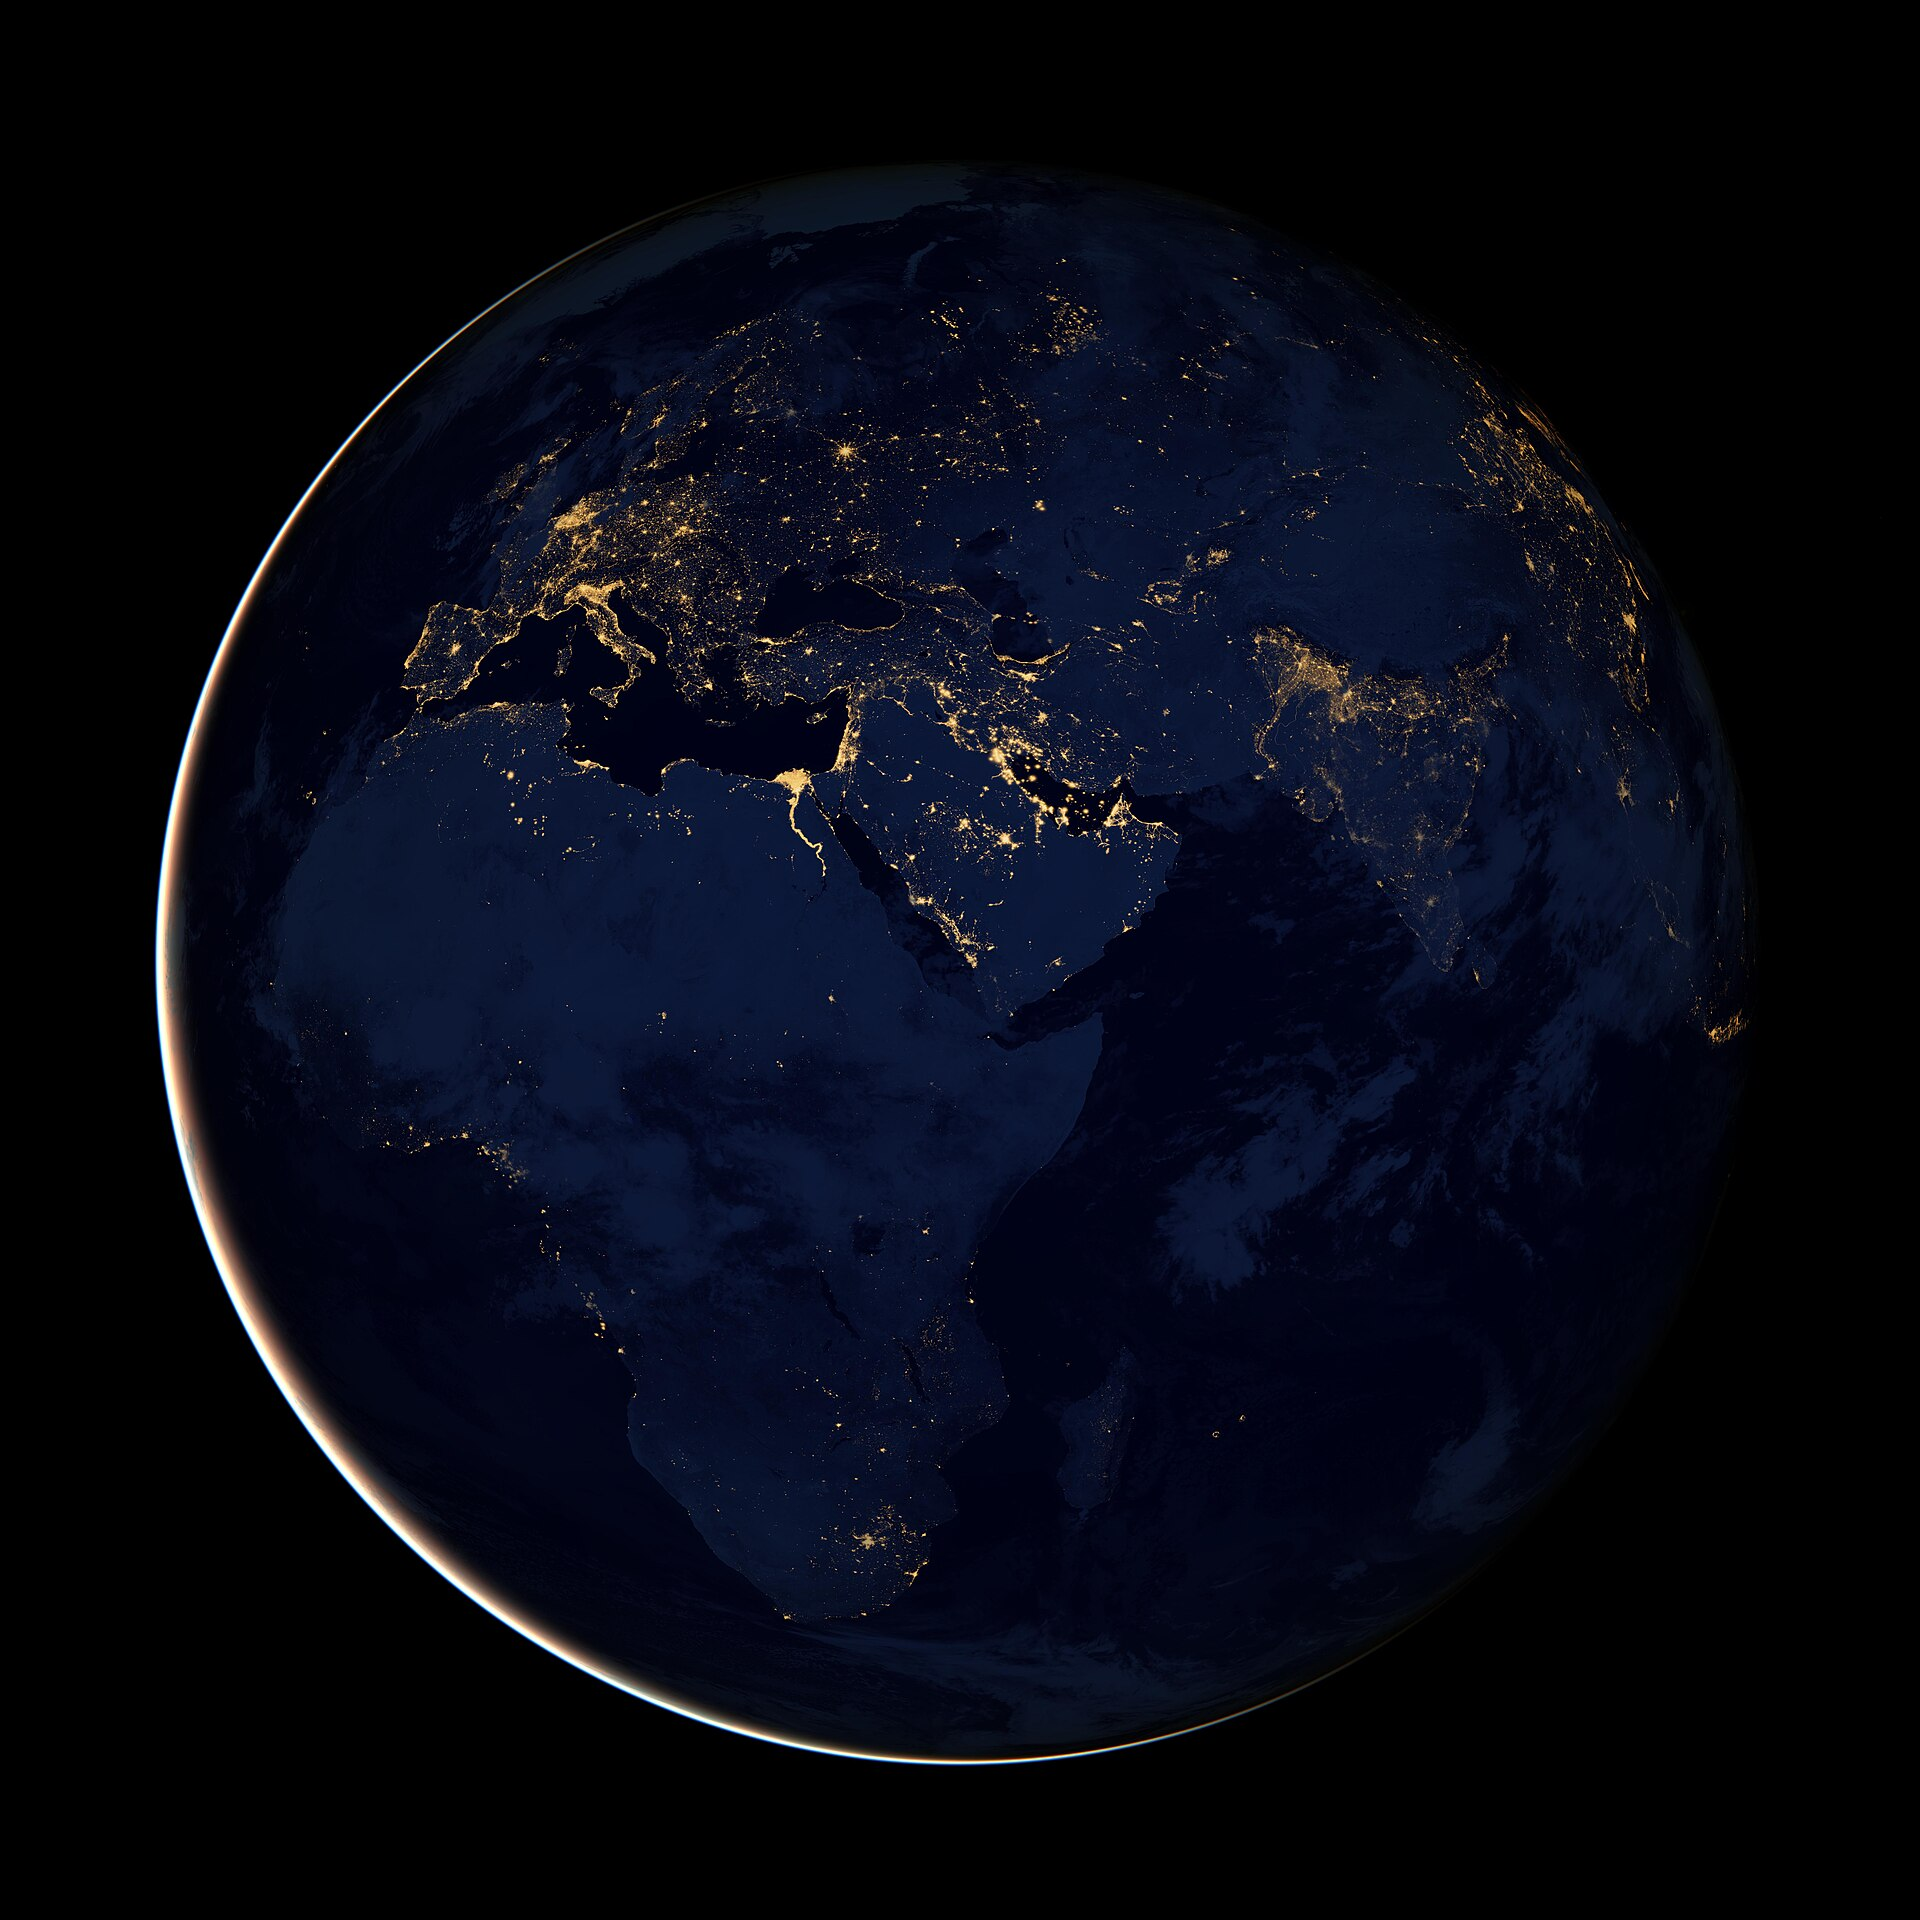
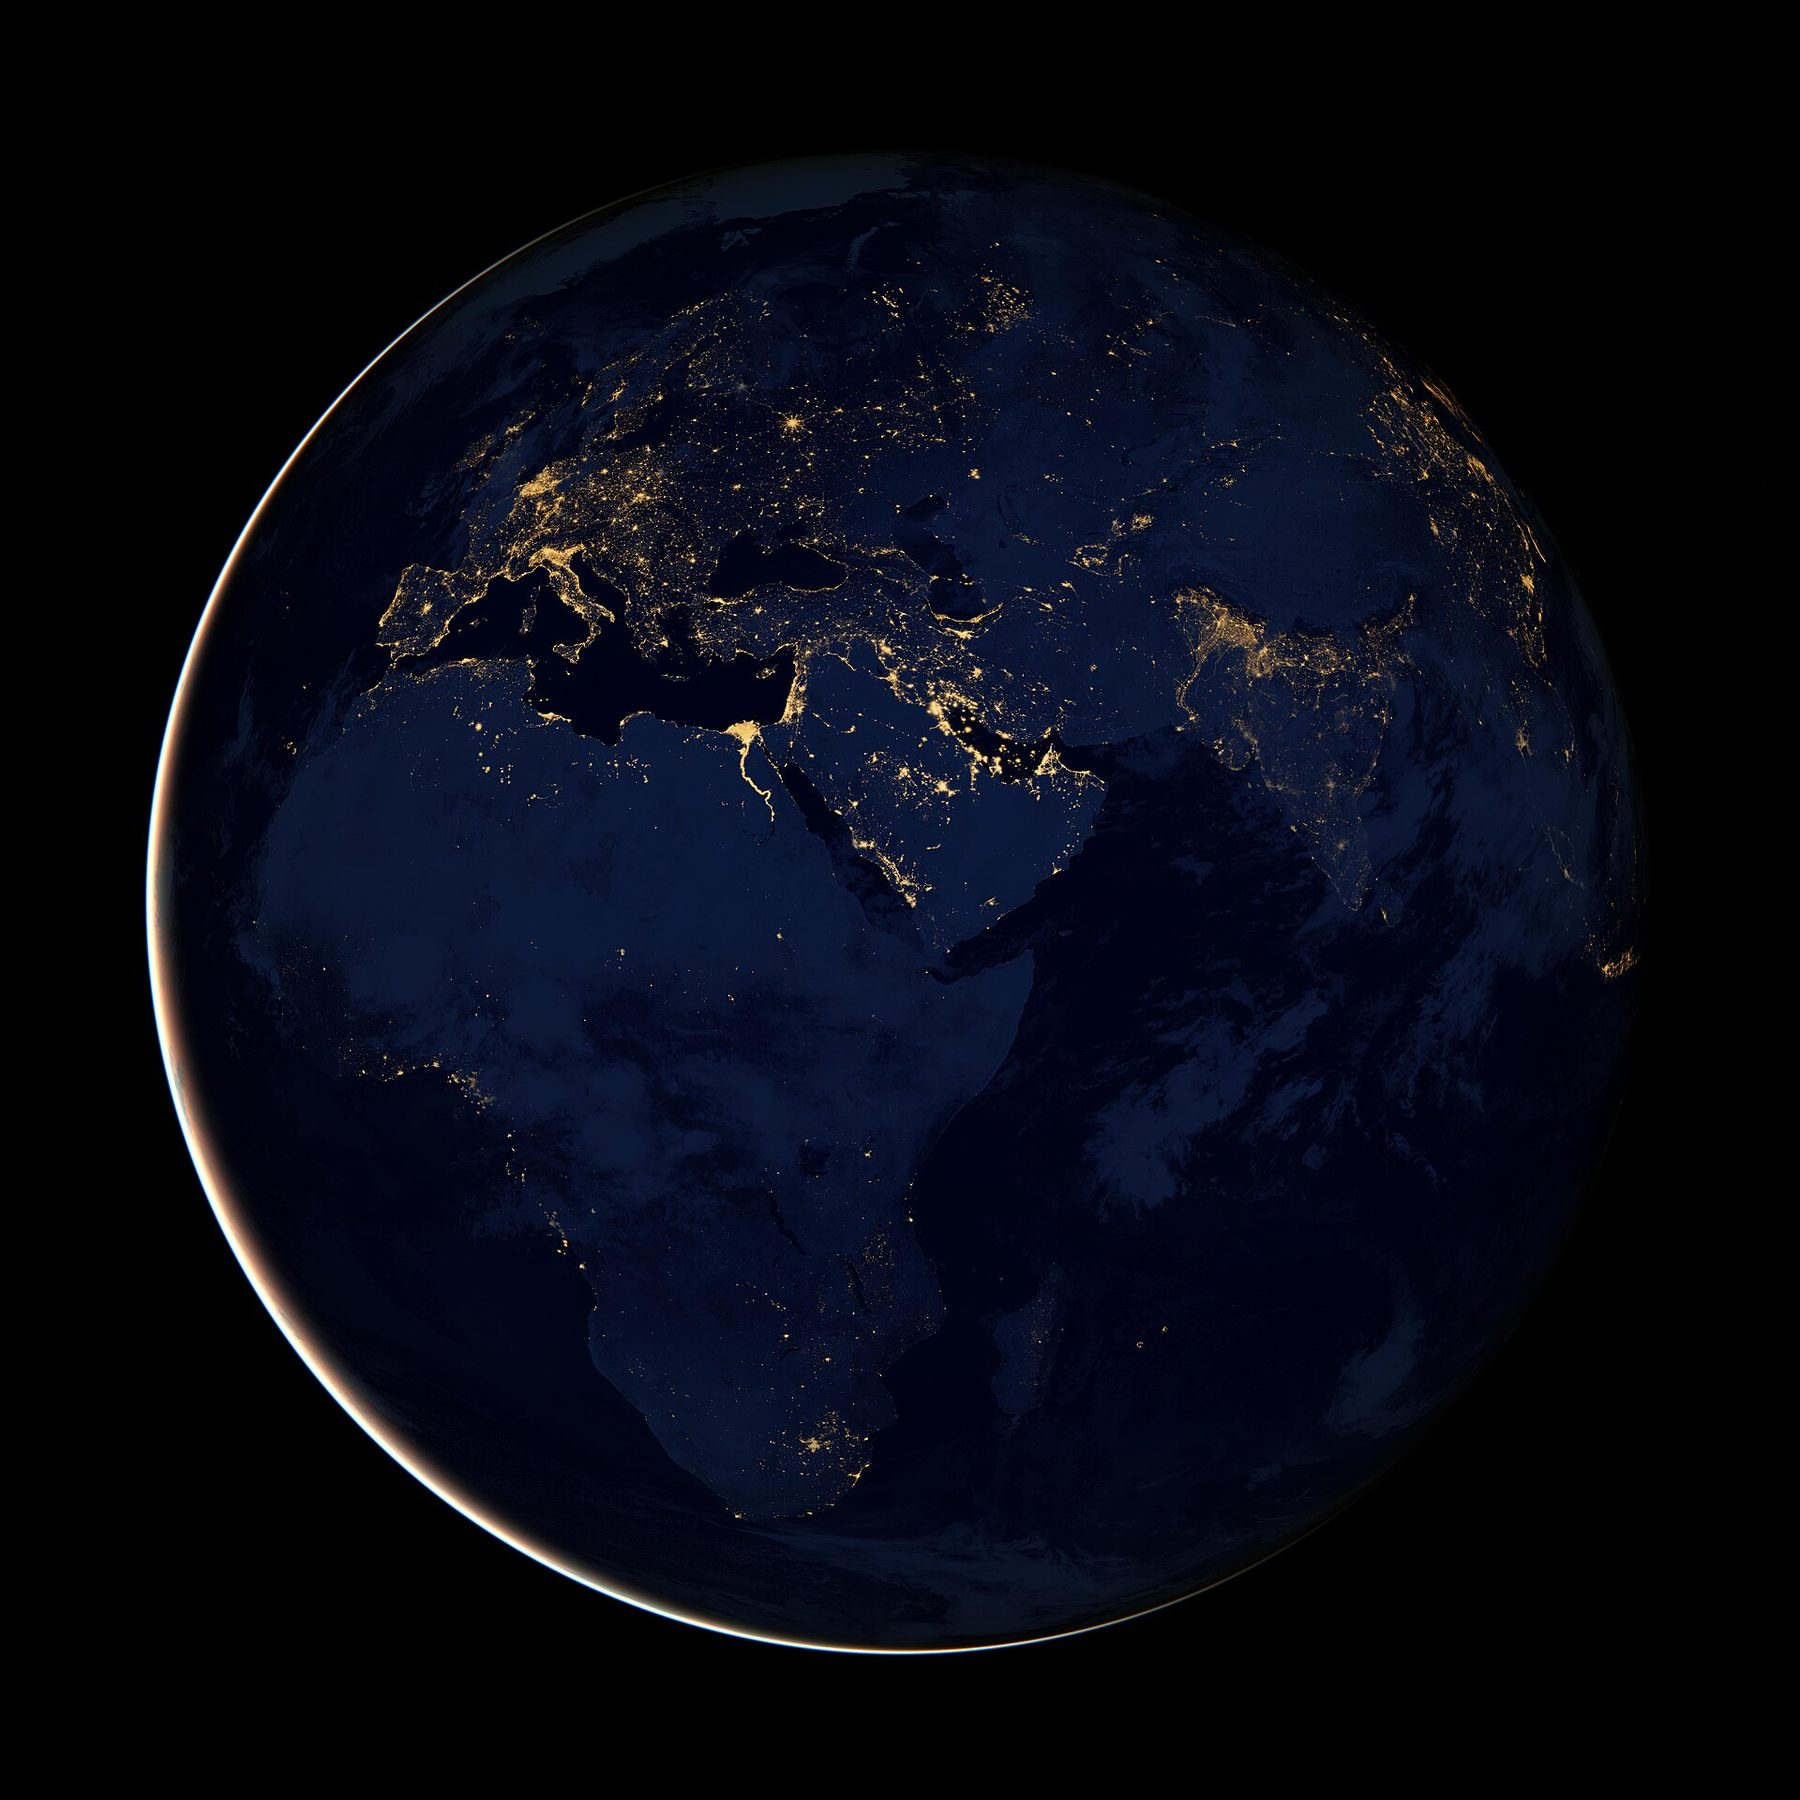
Pitch polish: sharper value prop, contact form, 404, subpage OG, lighter showcase
- Hero + contact copy: lead with the concrete 'what' (compare imagery over time,
  grade confidence); drop the explicit 'defense and commercial' line for the
  subtle both-audiences framing.
- Contact: real form wired to FormSubmit -> info@scryeinsights.com (AJAX with a
  no-JS native fallback), honeypot spam trap; replaces the plain mailto.
- Add branded 404.html.
- Add social share preview (OG image + tags) to the sub-pages.
- Recompress showcase.jpg (355KB -> 236KB); strip its metadata.

diff --git a/index.html b/index.html
@@ -69,8 +69,8 @@
         <p class="eyebrow"><span class="eyebrow__dot"></span>Geospatial change detection · decision intelligence</p>
         <h1 class="hero__title">Reveal What's Hidden.</h1>
         <p class="hero__lead">
-          Scrye turns imagery and elevation into decisions you can trust —
-          for the teams who have to act on what's changing on the ground,
+          Scrye compares imagery over time to show exactly what changed —
+          and how far to trust it — turning raw imagery into decisions,
           online or fully offline.
         </p>
         <div class="hero__actions">
@@ -350,15 +350,37 @@
           <p class="eyebrow"><span class="eyebrow__idx">06</span>Contact</p>
           <h2 class="section__title">Briefings by request.</h2>
           <p class="contact__lead">
-            We work with a select group of partners — across defense and commercial alike —
-            who need to turn imagery into decisions they can stand behind.
+            We work with a select group of partners who need to turn imagery
+            into decisions they can stand behind. Tell us a little about you.
           </p>
         </div>
 
         <div class="contact__panel">
-          <p class="contact__soon"><span class="pulse"></span>Get in touch</p>
-          <p class="contact__soonsub">For briefings and inquiries, reach us directly.</p>
-          <p class="contact__direct"><a href="mailto:info@scryeinsights.com">info@scryeinsights.com</a></p>
+          <form id="contactForm" class="contact__form" action="https://formsubmit.co/info@scryeinsights.com" method="POST">
+            <input type="hidden" name="_subject" value="New inquiry from scryeinsights.com" />
+            <input type="hidden" name="_captcha" value="false" />
+            <input type="hidden" name="_template" value="table" />
+            <input type="hidden" name="_next" value="https://scryeinsights.com/" />
+            <input type="text" name="_honey" tabindex="-1" autocomplete="off" aria-hidden="true" style="position:absolute;left:-9999px" />
+            <div class="field">
+              <label for="cf-name">Name</label>
+              <input id="cf-name" name="name" type="text" required autocomplete="name" />
+            </div>
+            <div class="field">
+              <label for="cf-org">Organization</label>
+              <input id="cf-org" name="organization" type="text" autocomplete="organization" />
+            </div>
+            <div class="field">
+              <label for="cf-email">Email</label>
+              <input id="cf-email" name="email" type="email" required autocomplete="email" />
+            </div>
+            <div class="field">
+              <label for="cf-message">How can we help?</label>
+              <textarea id="cf-message" name="message" rows="4"></textarea>
+            </div>
+            <button class="btn btn--primary btn--block" type="submit">Request a briefing</button>
+            <p class="form-note" id="formNote" role="status" aria-live="polite"></p>
+          </form>
         </div>
       </div>
     </section>

diff --git a/main.js b/main.js
@@ -55,42 +55,51 @@
   if (yearEl) yearEl.textContent = String(new Date().getFullYear());
 
   /* ---- contact form ----
-     No backend by design. On submit we compose a mailto: so the message
-     opens in the visitor's mail client. To wire a real endpoint instead
-     (Formspree, your API, etc.), replace the body of handleSubmit().     */
-  var CONTACT_EMAIL = "contact@scrye.example"; // <- replace with real inbox
+     Posts to FormSubmit. With JS on, we submit via fetch and stay on the page;
+     with JS off, the form's native action still delivers. */
   var form = document.getElementById("contactForm");
   var note = document.getElementById("formNote");
+  var val = function (sel) {
+    var el = form.querySelector(sel);
+    return el ? el.value.trim() : "";
+  };
 
-  function handleSubmit(e) {
-    e.preventDefault();
-    var name = form.name.value.trim();
-    var org = form.org.value.trim();
-    var email = form.email.value.trim();
-    var message = form.message.value.trim();
+  if (form) {
+    form.addEventListener("submit", function (e) {
+      var name = val('[name="name"]');
+      var email = val('[name="email"]');
+      if (!name || !email) {
+        e.preventDefault();
+        note.textContent = "Please add your name and email.";
+        note.classList.remove("is-ok");
+        return;
+      }
+      if (!window.fetch) return; // no fetch → let the native POST proceed
 
-    if (!name || !email) {
-      note.textContent = "Please add your name and email.";
+      e.preventDefault();
+      note.textContent = "Sending…";
       note.classList.remove("is-ok");
-      return;
-    }
-
-    var subject = "Briefing request — " + name + (org ? " (" + org + ")" : "");
-    var body =
-      "Name: " + name + "\n" +
-      "Organization: " + (org || "—") + "\n" +
-      "Email: " + email + "\n\n" +
-      (message || "(no message)");
-
-    window.location.href =
-      "mailto:" + CONTACT_EMAIL +
-      "?subject=" + encodeURIComponent(subject) +
-      "&body=" + encodeURIComponent(body);
-
-    note.textContent = "Opening your mail client…";
-    note.classList.add("is-ok");
-    form.reset();
+      fetch("https://formsubmit.co/ajax/info@scryeinsights.com", {
+        method: "POST",
+        headers: { "Content-Type": "application/json", "Accept": "application/json" },
+        body: JSON.stringify({
+          name: name,
+          organization: val('[name="organization"]'),
+          email: email,
+          message: val('[name="message"]'),
+          _subject: "New inquiry from scryeinsights.com"
+        })
+      })
+        .then(function (r) { return r.json(); })
+        .then(function () {
+          note.textContent = "Thanks — we'll be in touch.";
+          note.classList.add("is-ok");
+          form.reset();
+        })
+        .catch(function () {
+          note.textContent = "Something went wrong — email info@scryeinsights.com directly.";
+          note.classList.remove("is-ok");
+        });
+    });
   }
-
-  if (form) form.addEventListener("submit", handleSubmit);
 })();

diff --git a/404.html b/404.html
@@ -1,0 +1,28 @@
+<!DOCTYPE html>
+<html lang="en">
+<head>
+  <meta charset="UTF-8" />
+  <meta name="viewport" content="width=device-width, initial-scale=1.0" />
+  <title>Scrye</title>
+  <meta name="robots" content="noindex, nofollow" />
+  <meta name="theme-color" content="#0A0B0D" />
+  <link rel="icon" type="image/png" href="/assets/favicon.png" />
+  <link rel="stylesheet" href="/styles.css?v=4" />
+  <style>
+    .nf { min-height: 100svh; display: flex; flex-direction: column; align-items: center; justify-content: center; text-align: center; gap: 20px; padding: 40px 22px; }
+    .nf__mark { width: 76px; height: 76px; opacity: 0.95; }
+    .nf__code { font-family: var(--font-mono); letter-spacing: 0.3em; text-transform: uppercase; font-size: 12px; color: var(--accent); margin: 6px 0 0; }
+    .nf__title { font-size: clamp(2rem, 6vw, 3.4rem); font-weight: 700; letter-spacing: -0.03em; line-height: 1.05; margin: 0; }
+    .nf__lead { color: var(--text-muted); max-width: 44ch; margin: 0; }
+  </style>
+</head>
+<body>
+  <main class="nf">
+    <img class="nf__mark" src="/assets/scrye-mark.png" alt="Scrye" width="76" height="76" />
+    <p class="nf__code">Error 404</p>
+    <h1 class="nf__title">This page can't be found.</h1>
+    <p class="nf__lead">The link may be broken, or the page may have moved.</p>
+    <a class="btn btn--primary" href="/">Back to home</a>
+  </main>
+</body>
+</html>
